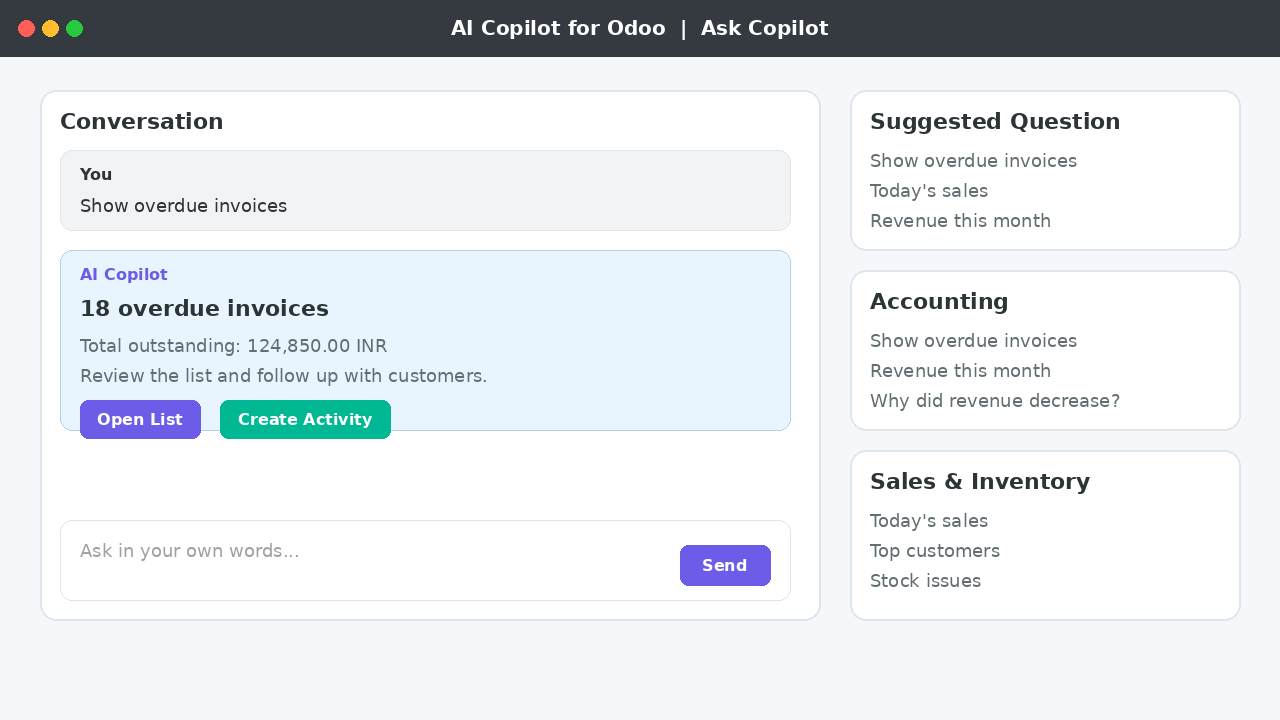
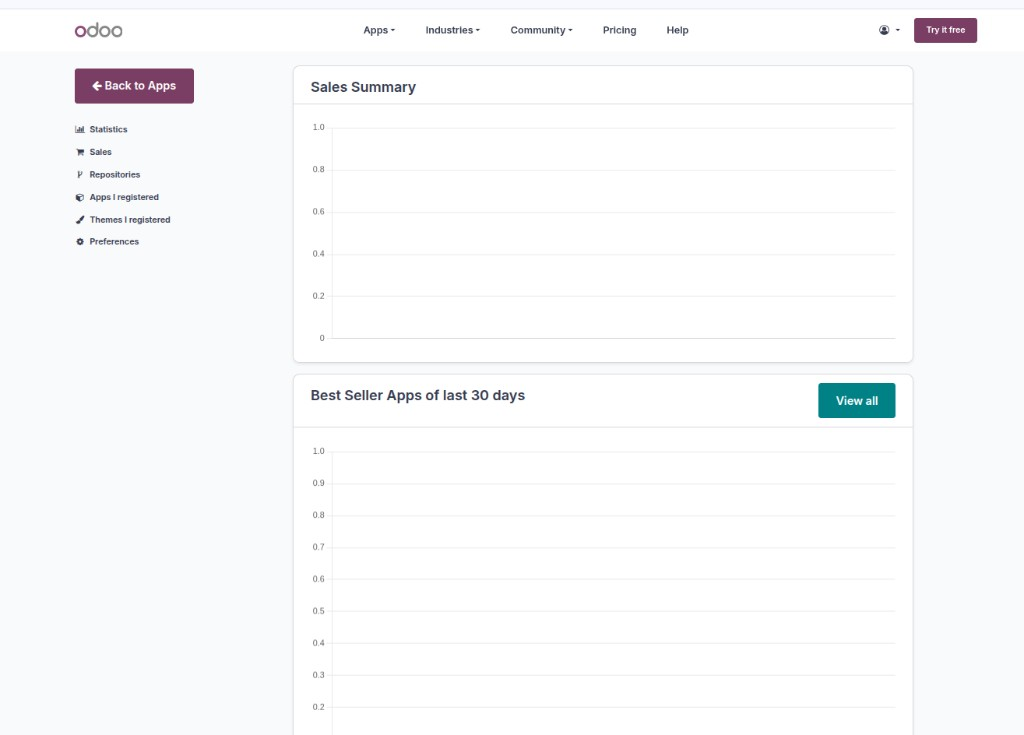
Add demo CTA, real screenshots, and paid pricing metadata
Add Request Demo and WhatsApp CTAs, switch listing screenshots to real Odoo Apps UI captures, and set module price to 49 USD.

diff --git a/ai_employee/static/description/index.html b/ai_employee/static/description/index.html
@@ -16,6 +16,16 @@
         <p class="text-center">
             Built for self-service use by your own team in your own Odoo.
         </p>
+        <p class="text-center oe_mt32">
+            <a href="https://www.armorait.com" target="_blank" rel="noopener"
+               style="background:#6C5CE7;color:#fff;padding:12px 24px;border-radius:8px;text-decoration:none;margin-right:10px;display:inline-block;">
+                Request Demo
+            </a>
+            <a href="https://wa.me/919157207037" target="_blank" rel="noopener"
+               style="background:#00B894;color:#fff;padding:12px 24px;border-radius:8px;text-decoration:none;display:inline-block;">
+                Talk on WhatsApp
+            </a>
+        </p>
     </div>
 </section>
 
@@ -226,17 +236,17 @@
         <div class="oe_demo oe_screenshot">
             <img src="main_screenshot.png" alt="Ask Copilot conversation with suggested questions"/>
         </div>
-        <p class="text-center">Ask Copilot workspace with conversation and suggested questions.</p>
+        <p class="text-center">Real Odoo Apps module page screenshot from the published listing.</p>
 
         <div class="oe_demo oe_screenshot">
-            <img src="screenshot_actions.png" alt="Assistant answer with action cards"/>
+            <img src="screenshot_repository_register.png" alt="Real Odoo Apps repository registration screen"/>
         </div>
-        <p class="text-center">Answers include action cards such as Open List and Create Activity.</p>
+        <p class="text-center">Real repository registration screen used for publishing.</p>
 
         <div class="oe_demo oe_screenshot">
-            <img src="screenshot_settings.png" alt="AI Copilot settings page"/>
+            <img src="screenshot_repository_scan.png" alt="Real Odoo Apps repository scan screen"/>
         </div>
-        <p class="text-center">Enable and configure AI Copilot from Settings.</p>
+        <p class="text-center">Real repository scan status from Odoo Apps publisher dashboard.</p>
     </div>
 </section>
 
@@ -267,6 +277,10 @@
         <p class="text-center">
             Email:
             <a href="mailto:info@armorait.com">info@armorait.com</a>
+        </p>
+        <p class="text-center">
+            WhatsApp:
+            <a href="https://wa.me/919157207037" target="_blank" rel="noopener">+91 91572 07037</a>
         </p>
     </div>
 </section>

diff --git a/ai_employee/__manifest__.py b/ai_employee/__manifest__.py
@@ -1,7 +1,7 @@
 # -*- coding: utf-8 -*-
 {
     'name': 'AI Copilot for Odoo',
-    'version': '19.0.2.2.0',
+    'version': '19.0.2.3.0',
     'category': 'Productivity',
     'summary': 'Business assistant for sales, accounting, inventory, and CRM insights',
     'description': """
@@ -26,6 +26,8 @@ Phase 1 focuses on analytics (read-only). Guided write actions arrive later.
     'website': 'https://www.armorait.com',
     'support': 'info@armorait.com',
     'license': 'LGPL-3',
+    'price': 49.0,
+    'currency': 'USD',
     'depends': [
         'base',
         'mail',
@@ -49,8 +51,8 @@ Phase 1 focuses on analytics (read-only). Guided write actions arrive later.
     'images': [
         'static/description/main_screenshot.png',
         'static/description/icon.png',
-        'static/description/screenshot_actions.png',
-        'static/description/screenshot_settings.png',
+        'static/description/screenshot_repository_register.png',
+        'static/description/screenshot_repository_scan.png',
         'static/description/banner.png',
     ],
     'installable': True,
